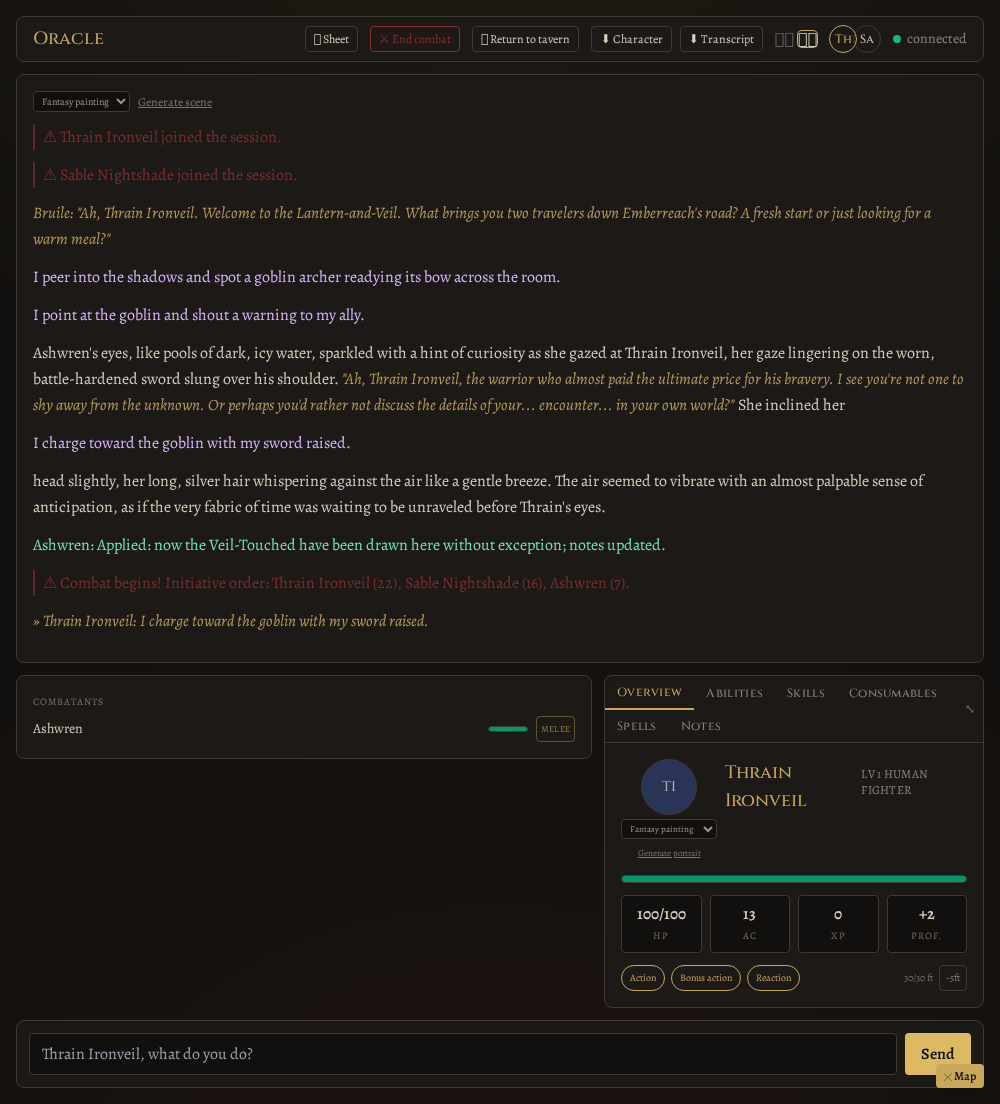
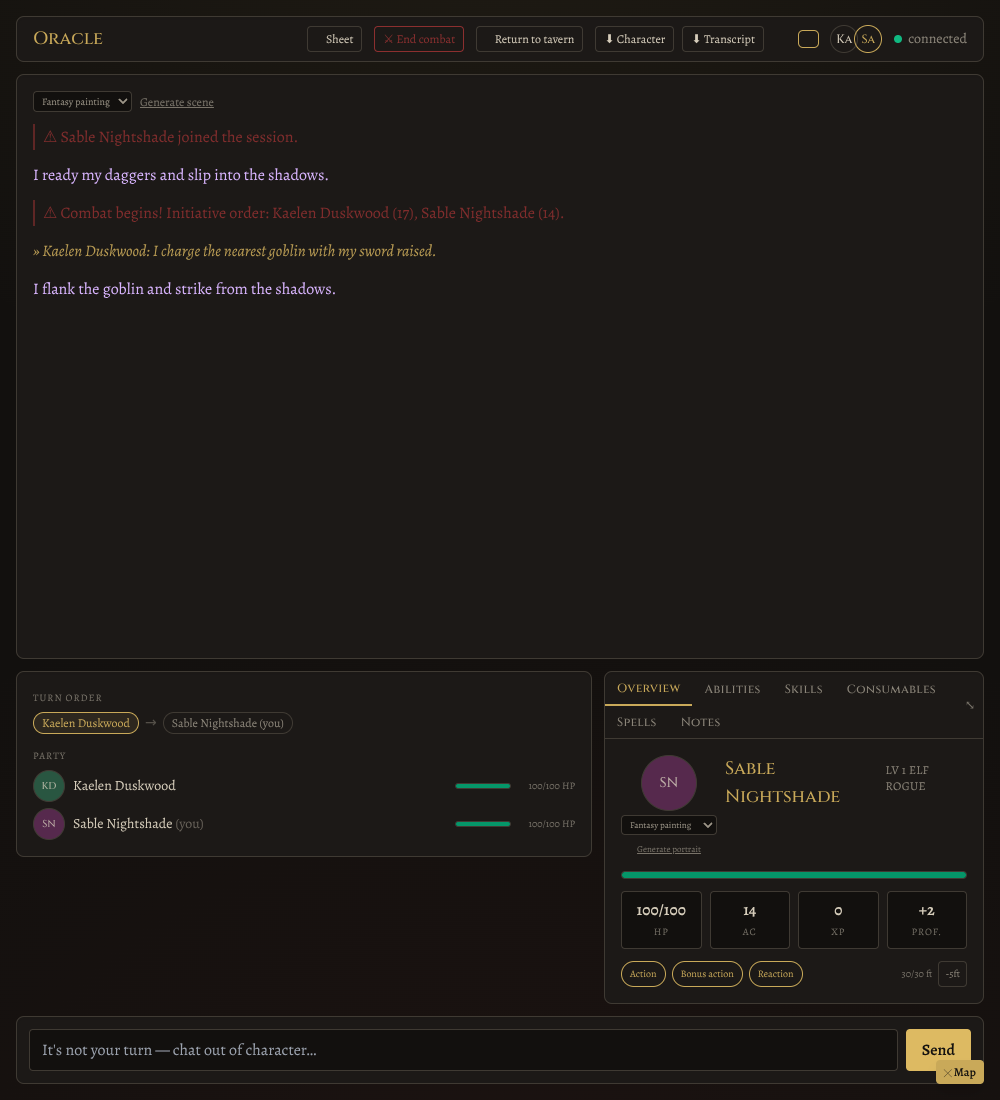
feat(web): surface turn order, party HP, and NPC cards in the scene panel
The bottom-left ScenePanel sat mostly empty outside combat while
CharacterSheet's min-height stretched the row - turn_order/currentTurn
and player HP were already tracked in the store but never rendered
anywhere. Adds a Turn order strip, a Party HP section, and upgrades
Combatants from thin list rows to cards. Updates the combat.png
screenshot and README caption to match what's actually pictured.

Claude-Session: https://claude.ai/code/session_018uUwQKpecFY1EUgbSryXLu

diff --git a/web/src/components/ScenePanel.jsx b/web/src/components/ScenePanel.jsx
@@ -5,6 +5,7 @@
 import { useLang } from "../i18n.jsx";
 import { useStore } from "../state/store.jsx";
 import { skillLabel } from "../lib/dnd5e.js";
+import Avatar from "./Avatar.jsx";
 
 const RANGE_LABELS = { melee: "Melee", near: "Near", far: "Far" };
 
@@ -19,10 +20,70 @@ export default function ScenePanel({ onSuggest }) {
   // own DM-facing NPC roster (_npc_roster) already uses.
   const npcs = Object.entries(state.npcs || {}).filter(([, npc]) => npc.hp > 0);
   const showCombatants = state.inCombat && npcs.length > 0;
-  if (!scene && clocks.length === 0 && !(state.world.objectives || []).length && !showCombatants) return null;
+  const players = Object.values(state.players || {});
+  const showTurnOrder = state.inCombat && state.turnOrder.length > 0;
+  if (!scene && clocks.length === 0 && !(state.world.objectives || []).length && !showCombatants && players.length === 0)
+    return null;
 
   return (
     <aside className="panel p-4 space-y-3 text-sm max-h-[60vh] overflow-y-auto">
+      {showTurnOrder && (
+        <Section title={t("Turn order")}>
+          <div className="flex flex-wrap items-center gap-1.5">
+            {state.turnOrder.map((pid, i) => {
+              const p = state.players[pid];
+              const active = pid === state.currentTurn;
+              return (
+                <span key={pid} className="flex items-center gap-1.5">
+                  {i > 0 && <span className="text-dungeon-ink/30">→</span>}
+                  <span
+                    className={`px-2 py-0.5 rounded-full text-xs border ${
+                      active
+                        ? "border-dungeon-gold text-dungeon-gold bg-dungeon-gold/10"
+                        : "border-dungeon-edge text-dungeon-ink/60"
+                    }`}
+                  >
+                    {p?.name || pid}
+                    {pid === state.me && ` (${t("you")})`}
+                  </span>
+                </span>
+              );
+            })}
+          </div>
+        </Section>
+      )}
+
+      {players.length > 0 && (
+        <Section title={t("Party")}>
+          <div className="space-y-1.5">
+            {players.map((p) => (
+              <div key={p.player_id} className="flex items-center gap-2">
+                <Avatar sheet={p} compact />
+                <span className="flex-1 min-w-0 truncate">
+                  {p.name}
+                  {p.player_id === state.me && <span className="text-dungeon-ink/40"> ({t("you")})</span>}
+                </span>
+                {p.dead ? (
+                  <span className="text-[10px] text-dungeon-blood uppercase tracking-wide">{t("Slain")}</span>
+                ) : p.dying ? (
+                  <span className="text-[10px] text-dungeon-blood uppercase tracking-wide">{t("Dying")}</span>
+                ) : (
+                  <>
+                    {p.conditions?.length > 0 && (
+                      <span className="text-[9px] text-dungeon-ink/50">{p.conditions.join(", ")}</span>
+                    )}
+                    <HpBar hp={p.hp} max={p.max_hp} className="w-14" />
+                    <span className="text-[10px] text-dungeon-ink/50 w-14 text-right shrink-0">
+                      {p.hp}/{p.max_hp} {t("HP")}
+                    </span>
+                  </>
+                )}
+              </div>
+            ))}
+          </div>
+        </Section>
+      )}
+
       {(state.world.objectives || []).some((o) => o.status === "active") && (
         <Section title={t("Objectives")}>
           <ul className="list-disc pl-5 space-y-0.5">
@@ -49,28 +110,40 @@ export default function ScenePanel({ onSuggest }) {
 
       {showCombatants && (
         <Section title={t("Combatants")}>
-          <ul className="space-y-1.5">
+          <div className="grid grid-cols-2 gap-2">
             {npcs.map(([name, npc]) => (
-              <li key={name} className="flex items-center gap-2">
-                <span className="flex-1 truncate">{name}</span>
-                {npc.disposition && npc.disposition !== "neutral" && (
-                  <span className="text-[10px] text-dungeon-ink/50">{npc.disposition}</span>
-                )}
-                <NpcHpBar hp={npc.hp} max={npc.max_hp} />
-                <span className="shrink-0 text-[9px] uppercase tracking-wide text-dungeon-gold/70 border border-dungeon-gold/40 rounded px-1 py-0.5">
-                  {RANGE_LABELS[npc.range_band] || npc.range_band}
-                </span>
-                {npc.range_band === "melee" && (
-                  <button
-                    onClick={() => actions.editCharacter("shove", name)}
-                    className="text-[10px] px-1.5 py-0.5 rounded border border-dungeon-edge text-dungeon-ink/60 hover:text-dungeon-ink hover:border-dungeon-gold transition"
-                  >
-                    {t("shove")}
-                  </button>
-                )}
-              </li>
+              <div key={name} className="rounded border border-dungeon-edge p-2 space-y-1.5">
+                <div className="flex items-center gap-1.5">
+                  <Avatar sheet={{ name }} compact />
+                  <span className="flex-1 min-w-0 truncate">{name}</span>
+                  <span className="shrink-0 text-[9px] uppercase tracking-wide text-dungeon-gold/70 border border-dungeon-gold/40 rounded px-1 py-0.5">
+                    {RANGE_LABELS[npc.range_band] || npc.range_band}
+                  </span>
+                </div>
+                <div className="flex items-center gap-2">
+                  <HpBar hp={npc.hp} max={npc.max_hp} className="flex-1" />
+                  <span className="text-[10px] text-dungeon-ink/50 shrink-0">
+                    {npc.hp}/{npc.max_hp}
+                  </span>
+                </div>
+                <div className="flex items-center justify-between gap-2 min-h-[18px]">
+                  {npc.disposition && npc.disposition !== "neutral" ? (
+                    <span className="text-[10px] text-dungeon-ink/50">{npc.disposition}</span>
+                  ) : (
+                    <span />
+                  )}
+                  {npc.range_band === "melee" && (
+                    <button
+                      onClick={() => actions.editCharacter("shove", name)}
+                      className="text-[10px] px-1.5 py-0.5 rounded border border-dungeon-edge text-dungeon-ink/60 hover:text-dungeon-ink hover:border-dungeon-gold transition"
+                    >
+                      {t("shove")}
+                    </button>
+                  )}
+                </div>
+              </div>
             ))}
-          </ul>
+          </div>
         </Section>
       )}
 
@@ -134,11 +207,11 @@ export default function ScenePanel({ onSuggest }) {
   );
 }
 
-function NpcHpBar({ hp, max }) {
+function HpBar({ hp, max, className = "w-10" }) {
   const pct = max > 0 ? Math.max(0, Math.min(100, Math.round((hp / max) * 100))) : 0;
   const fill = pct > 50 ? "bg-emerald-600" : pct > 25 ? "bg-amber-500" : "bg-dungeon-blood";
   return (
-    <span className="w-10 h-1.5 bg-dungeon-bg rounded overflow-hidden border border-dungeon-edge shrink-0">
+    <span className={`${className} h-1.5 bg-dungeon-bg rounded overflow-hidden border border-dungeon-edge shrink-0`}>
       <span className={`block h-full ${fill}`} style={{ width: `${pct}%` }} />
     </span>
   );

diff --git a/README.md b/README.md
@@ -159,8 +159,8 @@ Real captures of the live app with two real players sharing a session — join s
   <sub>Two players, one party — same session id, one browser tab each</sub>
 </p>
 <p align="center">
-  <img src="docs/images/screenshots/combat.png" alt="Oracle live combat with real DM narration, a tracked NPC in the Combatants roster with an HP bar and range badge, and the action-economy pips (Action, Bonus action, Reaction) alongside a scene-banner control" style="max-width: 100%; width: 900px;"><br>
-  <sub>Formal initiative in progress — the Combatants roster (NPC HP + abstract melee/near/far range band), per-turn action economy pips, and the scene-banner generator, all driven by a real Ollama turn</sub>
+  <img src="docs/images/screenshots/combat.png" alt="Oracle live combat with real DM narration, a per-turn Turn order strip, a Party panel showing every player's HP at a glance, and the action-economy pips (Action, Bonus action, Reaction)" style="max-width: 100%; width: 900px;"><br>
+  <sub>Formal initiative in progress — the Turn order tracker and Party HP panel (both new), per-turn action economy pips, all driven by a real Ollama turn. The Combatants roster (NPC HP + range band) renders the same way once the DM tracks a monster — not pictured here, since this run's DM never introduced one</sub>
 </p>
 
 ## The tool-call reliability investigation
